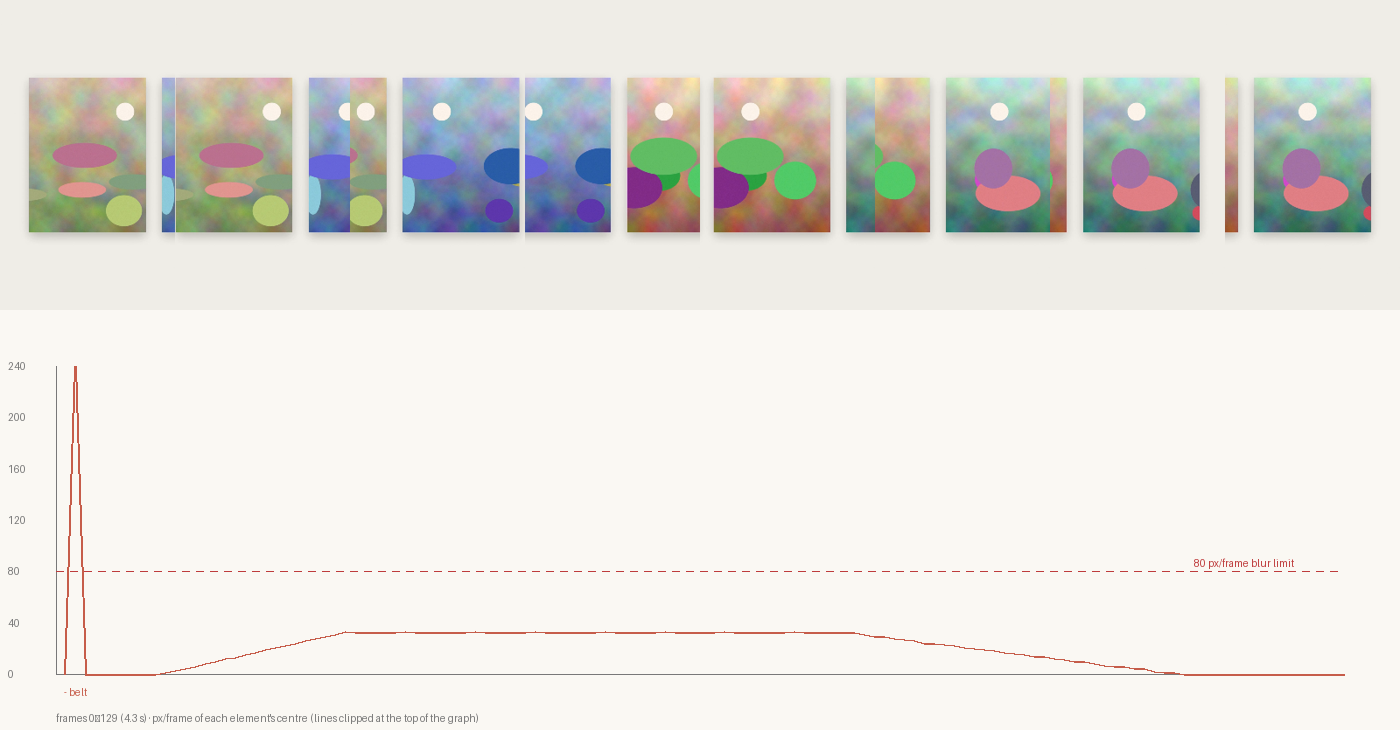
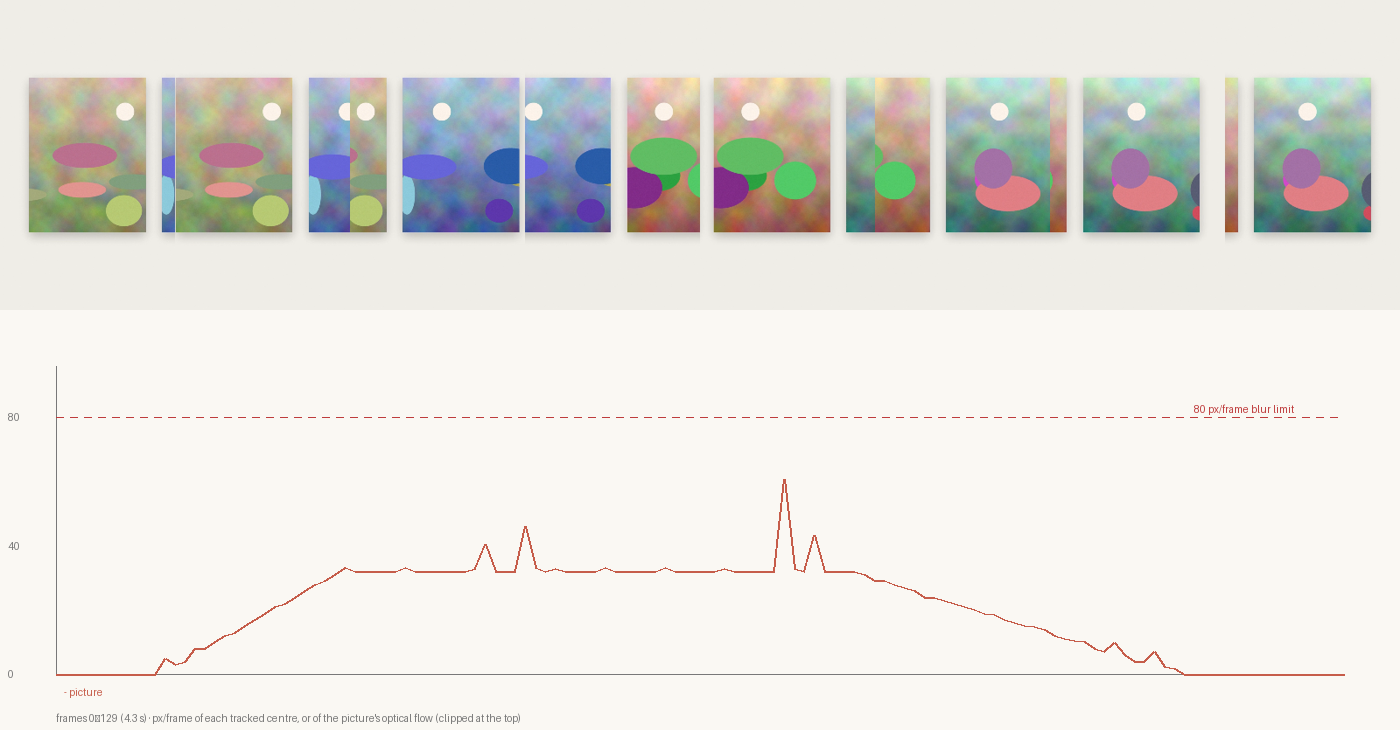
Sheets for every move demo, measured from the pixels; Escapada alternates two steam shapes

diff --git a/remotion-base/src/examples/termas/Escapada.tsx b/remotion-base/src/examples/termas/Escapada.tsx
@@ -143,12 +143,21 @@ export const Escapada: React.FC<Props> = ({ brief, ...rest }) => (
 const Scene: React.FC<Omit<Props, "brief">> = ({ showSafeZones = false }) => {
   const copy = useCopy();
   const frame = useCurrentFrame();
-  const density = veilDensity(frame, [...AT.slice(1), END + 6], {
-    base: 0.05,
-    peak: 0.82,
-    before: 7,
-    after: 26,
-  });
+  // alternate two shapes of steam so the changes do not all move on one curve: a fast rise that clears slowly,
+  // and an even swell
+  const changes = [...AT.slice(1), END + 6];
+  const density = Math.max(
+    veilDensity(
+      frame,
+      changes.filter((_, i) => i % 2 === 0),
+      { base: 0.05, peak: 0.82, before: 7, after: 26 },
+    ),
+    veilDensity(
+      frame,
+      changes.filter((_, i) => i % 2 === 1),
+      { base: 0.05, peak: 0.82, before: 14, after: 14 },
+    ),
+  );
   const opening = tween(frame, [0, 22], [1, 0], EASE.out); // the reel opens out of the steam
   const end = tween(frame, [END - 6, END + 18], [0, 1], EASE.glide);
   const cta = blurIn(frame, HOLD - 6, 9999, 16);
